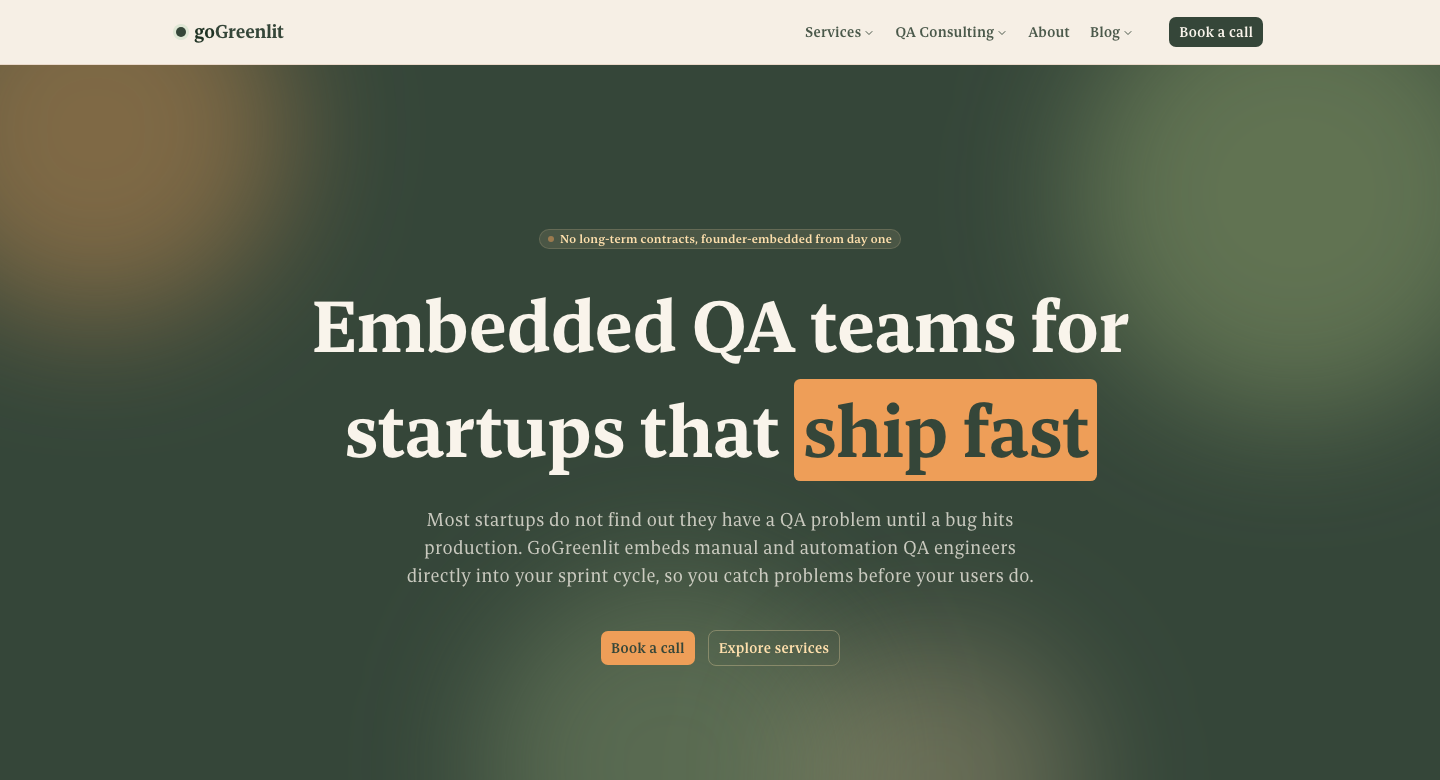
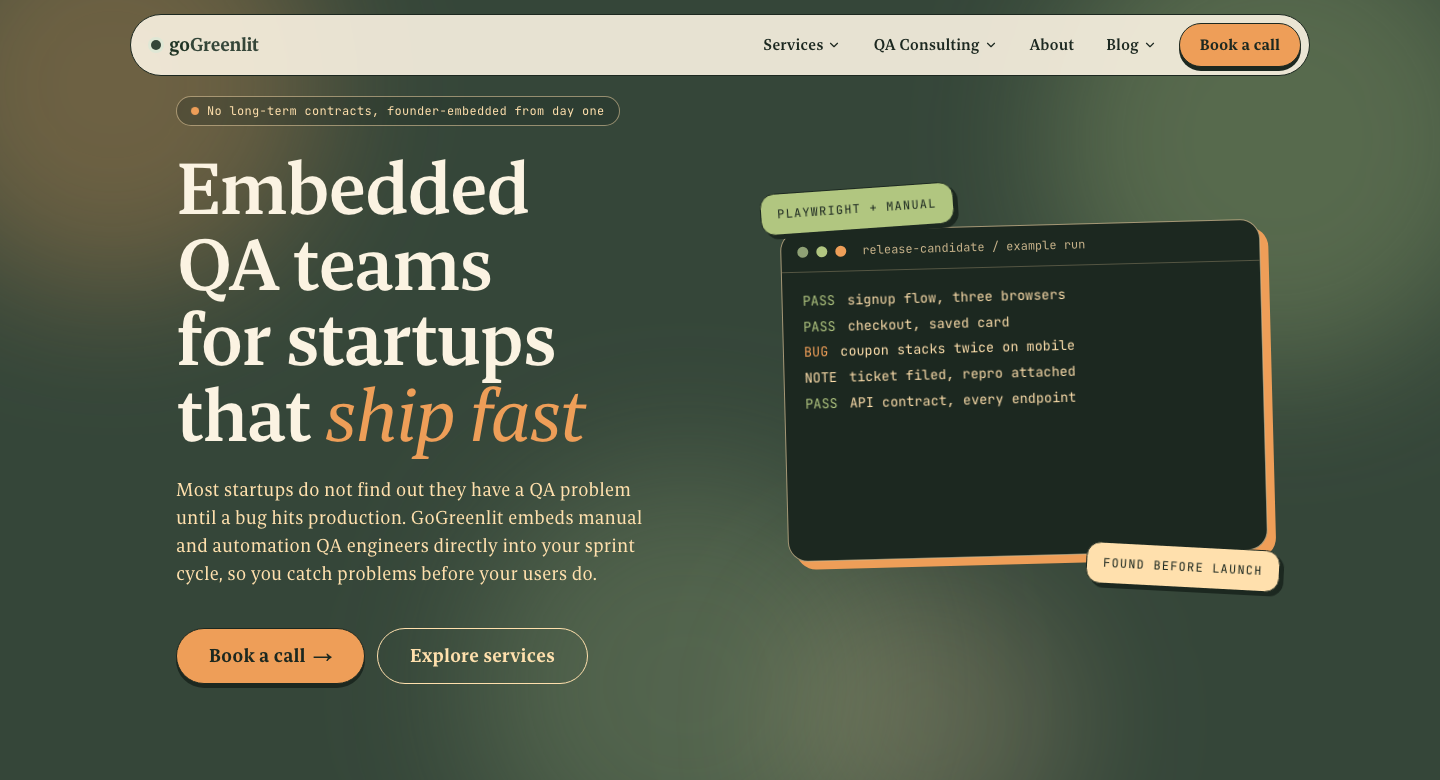
docs: refresh README screenshots and redesign status, test the device picker

diff --git a/e2e/widgets.spec.ts b/e2e/widgets.spec.ts
@@ -121,3 +121,14 @@ test("the About page has founders with LinkedIn links and no icons", async ({
   await expect(links.first()).toHaveAttribute("rel", /noopener/);
   expect(await page.locator("main svg").count()).toBe(0);
 });
+
+test("device picker tabs switch the checklist on the Services overview", async ({
+  page,
+}) => {
+  await page.goto("/software-testing-services");
+  const tabs = page.getByRole("tablist", { name: "Device type" });
+  await tabs.scrollIntoViewIfNeeded();
+  const android = tabs.getByRole("tab", { name: /android/i });
+  await android.click();
+  await expect(android).toHaveAttribute("aria-selected", "true");
+});

diff --git a/CLAUDE.md b/CLAUDE.md
@@ -96,11 +96,11 @@ truth while it is in flight: the Live Build design canvas artifact
 (https://claude.ai/artifact/EZczMG9LP1hscifNEaFLU3, 20 boards covering
 every page, the menus, the shared pieces and phone widths) and the
 progress tracker (https://claude.ai/artifact/MkU75tfmdu3vVt69E9WBiZ, 10
-phases, 87 tasks). **Status as of 2026-10-23:** Phase 0 (decisions) is
+phases, 87 tasks). **Status as of 2026-10-25:** Phase 0 (decisions) is
 open, Phases 1 to 5 (foundation, site chrome, shared components, homepage,
 Services family) are built and pushed, Phase 6 (QA Consulting family:
 overview, six subpages, OG images, phone check) is built and pushed, Phase 7
-(Blog: tile, hero, filters and search, featured post, category header, pagination, post header, contents pill, callouts, related, SEO check, OG images, phone check) is built, with its last commits not yet pushed. Phase 8 (long tail) is built and pushed. Phase 9 (hardening) is in progress (z-devices, z-lh, z-keys, z-contrast, z-rm, z-csp and z-e2e done).
+(Blog: tile, hero, filters and search, featured post, category header, pagination, post header, contents pill, callouts, related, SEO check, OG images, phone check) is built and pushed. Phase 8 (long tail) is built and pushed. Phase 9 (hardening) is in progress (z-devices, z-lh, z-keys, z-contrast, z-rm, z-csp, z-e2e and z-checks done, z-docs in progress).
 The savings calculator is deliberately not built (Phase 0 never approved it,
 gotcha #35). See gotchas #32 to #36 for what each finished phase established.
 Pages not yet redone still look
@@ -2436,15 +2436,15 @@ ld+json">` only, and the new code-rendered OG images are same-origin routes.
     (gotcha #24).
 
 71. **E2E coverage pass (2026-10-24), task z-e2e.** `e2e/widgets.spec.ts`
-    (9 tests, reduced motion on so animations do not race the assertions) covers
+    (10 tests, reduced motion on so animations do not race the assertions) covers
     what had no browser test: live blog search through the URL (focus kept,
     Clear), the quality gate demo, the compare switch (opens on the GoGreenlit
     way), the maturity check (first unticked statement picks the link, all five
     gives the audit), the carousel's six links, the Playwright run widget, the
     framework picker, the 404 and the icon-free About page with its LinkedIn
-    links. Suite: 39 of 39 pass. **Found along the way:** `DevicePicker`
-    (`device-picker.tsx`) is not imported by any page, so it has no e2e test and
-    gotcha #36's note that it sits under the proof card is out of date.
+    links, and the device picker on the Services overview (10 tests, suite 40 of
+    40). An earlier draft of this note wrongly called `DevicePicker` unused, it
+    is rendered on `/software-testing-services`.
 
 ## Repository structure
 
@@ -2813,8 +2813,8 @@ e2e/                      Playwright specs: home.spec.ts (8 tests),
                           navigation.spec.ts (15, added 2026-10-18),
                           keyboard.spec.ts (3, added 2026-10-23) and
                           blog-post.spec.ts (2) and blog-index.spec.ts (2),
-                          both added 2026-10-23, and widgets.spec.ts (9,
-                          added 2026-10-24, gotcha #71): 39 e2e in all
+                          both added 2026-10-23, and widgets.spec.ts (10,
+                          added 2026-10-24, gotcha #71): 40 e2e in all
 src/**/*.test.ts(x)       Vitest unit/component tests, colocated with source
                           (229 across 45 files as of 2026-10-24)
 vitest.setup.ts           jest-dom matchers plus IntersectionObserver and

diff --git a/README.md b/README.md
@@ -18,7 +18,7 @@ a production build, and end-to-end tests.
 <p align="center">
   <img src="public/readme/home-hero.png" width="100%" alt="Homepage hero with animated aurora background" />
   <br />
-  <sub>Homepage hero: animated aurora background, always fills exactly one viewport</sub>
+  <sub>Homepage hero: aurora background and a live test-run terminal, always exactly one viewport</sub>
 </p>
 
 <p align="center">
@@ -123,13 +123,13 @@ The site is mid-redesign (a motion-forward direction called "Live Build":
 pill buttons, sticker-style cards, live test-run demos, scroll-driven
 animation, all pure CSS). It is being built phase by phase on one
 long-lived branch and ships to `main` only once the whole thing is
-approved, so what you see in production is the previous design. Done so
-far on the branch: the foundation (tokens, motion utilities, focus
-styles, brand components), the site chrome (a floating header with mega
-menus, a new mobile drawer, footer, breadcrumbs) and the shared page
-components, the homepage, and the whole Software Testing Services family
-(overview, six subpages and their social images). Next is the QA Consulting
-family. See `CLAUDE.md` (gotchas 32 to 36) for how each piece works.
+approved, so what you see in production is the previous design. Every
+phase of the build is done on the branch (foundation, site chrome, shared
+components, homepage, Services and QA Consulting families, the blog, About,
+404 and social images) and it is now in the hardening and sign-off phase:
+Lighthouse and layout-shift fixes, a keyboard pass, a pixel-level contrast
+audit, reduced-motion and CSP checks, and the end-to-end suite. See
+`CLAUDE.md` (gotchas 32 to 71) for how each piece works.
 
 ## Stack
 
@@ -149,7 +149,7 @@ family. See `CLAUDE.md` (gotchas 32 to 36) for how each piece works.
 - **17** hand-built page templates across 4 distinct page families, plus
   a blog engine generating **45** long-form posts, **62** total indexed
   routes
-- **229** unit tests and a **30**-scenario Playwright end-to-end suite,
+- **229** unit tests and a **40**-scenario Playwright end-to-end suite,
   both required to pass in CI before merge, including a test that reads
   the real color tokens and fails if a pairing drops below WCAG contrast
 - **Zero** runtime animation dependencies, every motion effect is pure
